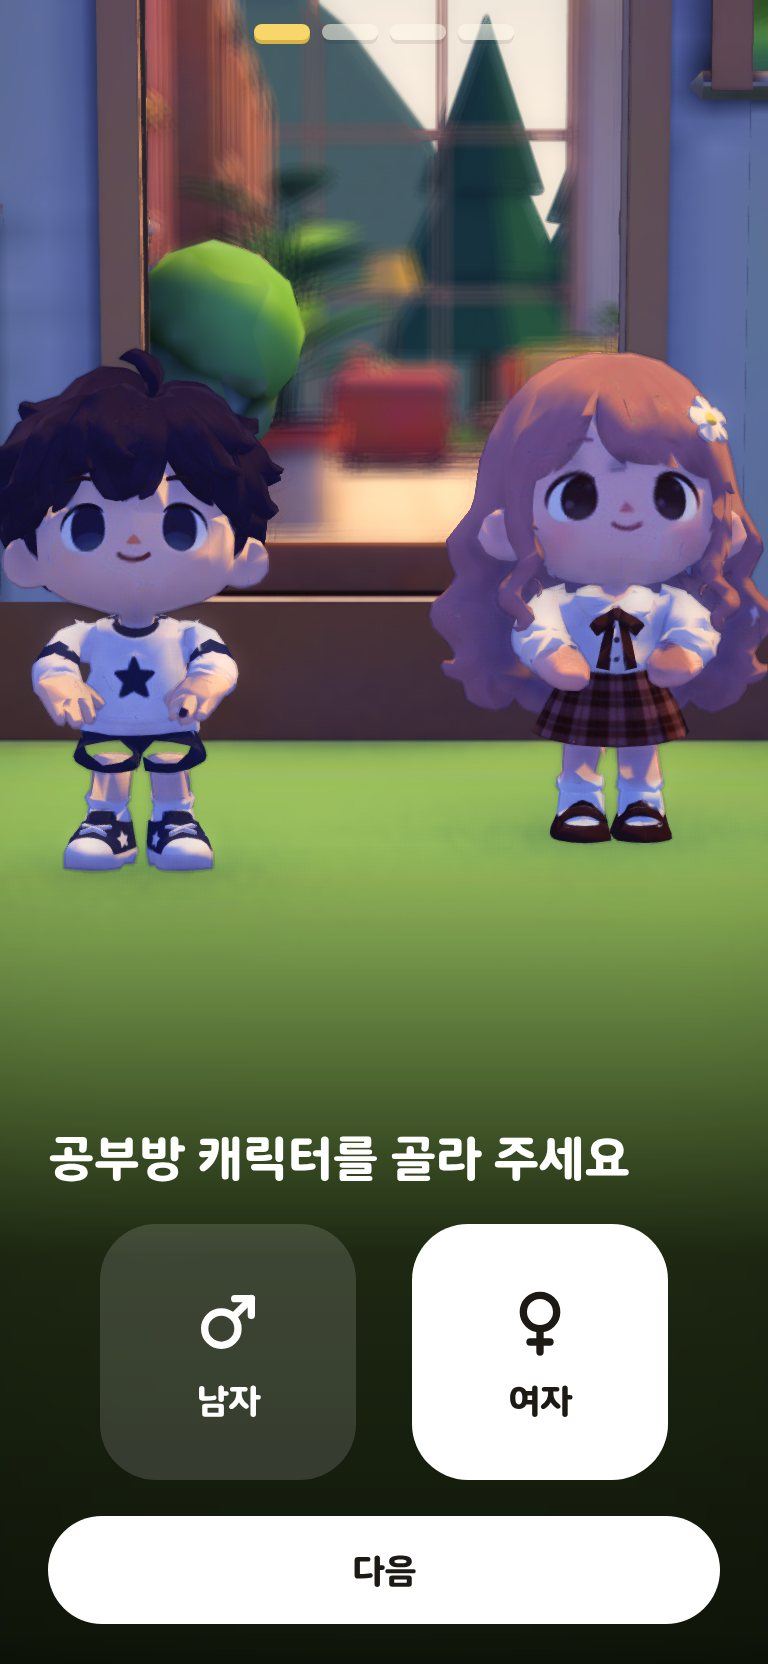
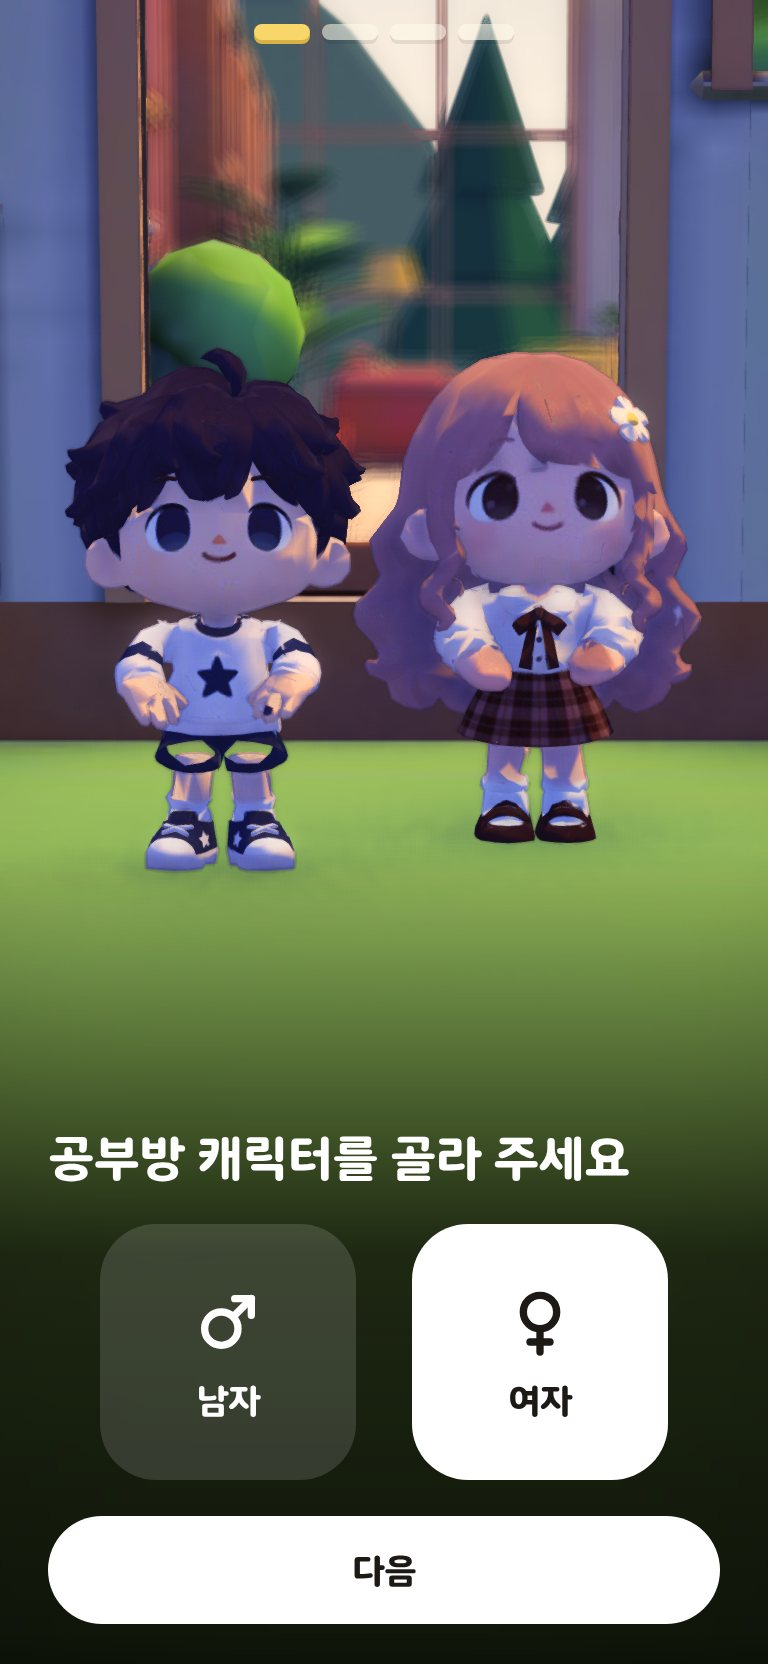
fix(web/onboarding): bring the two characters closer together
사용자 요청(2026-11-24): 남·여 고르기에서 두 캐릭터 사이 간격을 0.9m에서 0.6m로 줄인다. 캡처 1단계를 다시 찍었다.

Claude-Session: https://claude.ai/code/session_01UNZt6MP28b6hnoNrji3C1C

Changed region(s): [[0.0, 0.1875, 1.0, 0.5312]]

diff --git a/frontend/src/feature/study/onboarding/onboardingScene.ts b/frontend/src/feature/study/onboarding/onboardingScene.ts
@@ -21,7 +21,7 @@ const floorY = 0
 const floorEdgeX = -0.2
 const standX = -2.0
 /** 남자는 화면 왼쪽(카메라가 +X를 보면 +Z가 화면 오른쪽). */
-const pickZ: Record<Gender, number> = { male: doorZ - 0.45, female: doorZ + 0.45 }
+const pickZ: Record<Gender, number> = { male: doorZ - 0.3, female: doorZ + 0.3 }
 /** 카메라를 보는 쪽(-X). */
 const faceCamera = -Math.PI / 2
 const walkSpeed = 1.25
